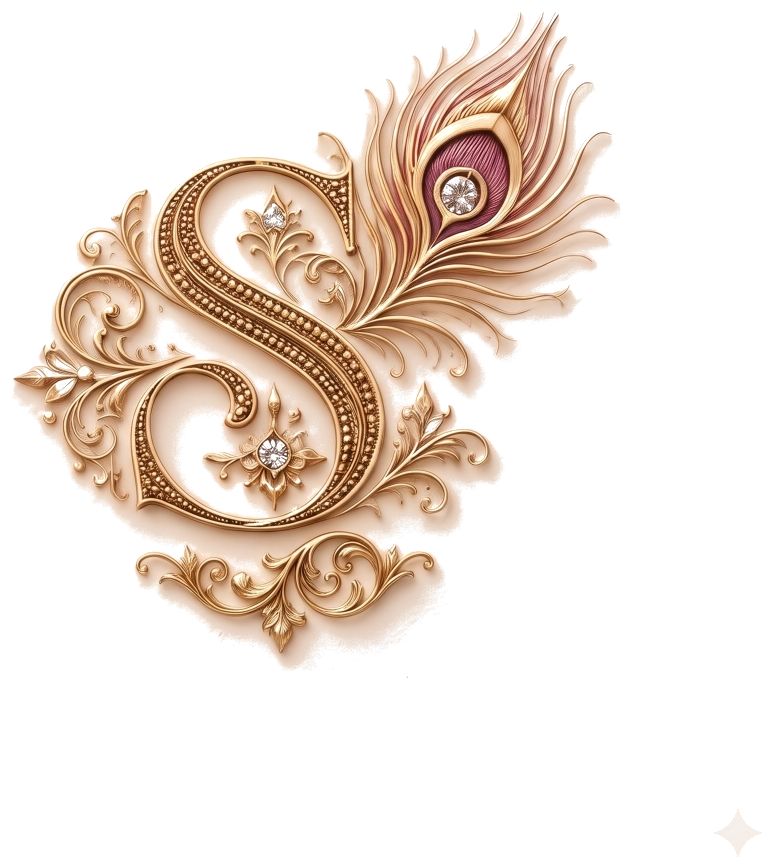
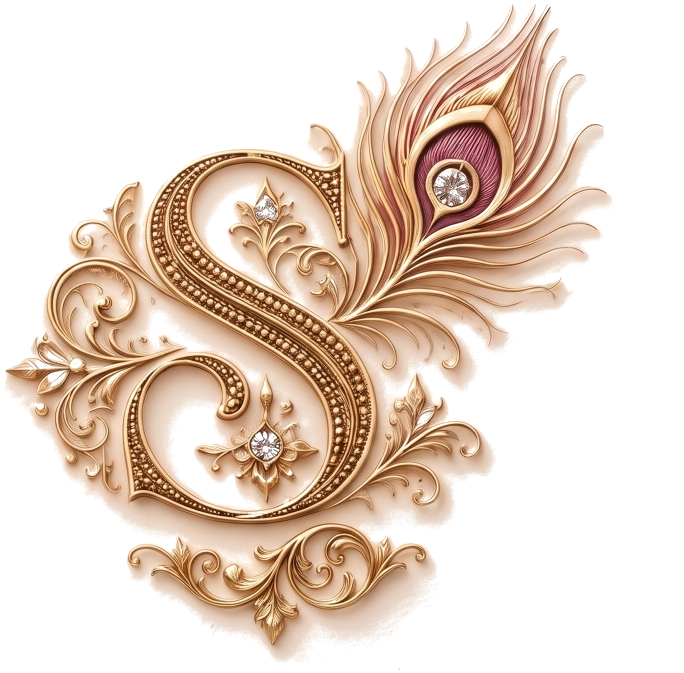
fix: clean watermark from crest and prevent mobile header word wrapping

diff --git a/src/App.tsx b/src/App.tsx
@@ -655,26 +655,35 @@ export default function App() {
             {/* Brand Logo & Wordmark - Integrated Seamlessly into Header */}
             <button
               onClick={() => window.scrollTo({ top: 0, behavior: "smooth" })}
-              className="flex items-center gap-2.5 sm:gap-3 text-left group cursor-pointer py-1 select-none"
+              className="flex items-center gap-2 sm:gap-3 text-left group cursor-pointer py-1 select-none shrink-0"
             >
               <div className="relative flex items-center justify-center shrink-0">
                 <img
                   src={resolveAsset("/images/shambhavi_crest_transparent.png")}
                   alt="Shambhavi Creations Emblem"
-                  className="h-11 sm:h-13 md:h-14 w-auto object-contain drop-shadow-[0_2px_8px_rgba(158,125,75,0.22)] group-hover:scale-105 transition-transform duration-300"
+                  className="h-10 sm:h-12 md:h-13 w-auto object-contain drop-shadow-[0_2px_8px_rgba(158,125,75,0.22)] group-hover:scale-105 transition-transform duration-300"
                 />
               </div>
 
-              <div className="flex flex-col justify-center">
-                <span className="font-serif-luxury text-base sm:text-lg md:text-[1.3rem] font-bold tracking-[0.2em] text-[#1F1E1D] group-hover:text-[#9E7D4B] transition-colors uppercase leading-none">
+              <div className="flex flex-col justify-center min-w-0">
+                <span className="font-serif-luxury text-[0.95rem] sm:text-lg md:text-[1.3rem] font-bold tracking-[0.18em] sm:tracking-[0.2em] text-[#1F1E1D] group-hover:text-[#9E7D4B] transition-colors uppercase leading-none whitespace-nowrap">
                   Shambhavi
                 </span>
-                <div className="flex items-center gap-1.5 mt-1">
-                  <span className="text-[0.55rem] sm:text-[0.62rem] uppercase tracking-[0.26em] text-[#9E7D4B] font-semibold leading-none">
+                
+                {/* Mobile: Clean single line that never wraps */}
+                <div className="sm:hidden mt-1 whitespace-nowrap">
+                  <span className="text-[0.52rem] uppercase tracking-[0.22em] text-[#9E7D4B] font-semibold leading-none whitespace-nowrap">
+                    {storeSettings.tagline || "Fine Jewellery"}
+                  </span>
+                </div>
+
+                {/* Tablet & Desktop: Creations • Fine Jewellery */}
+                <div className="hidden sm:flex items-center gap-1.5 mt-1 whitespace-nowrap">
+                  <span className="text-[0.62rem] uppercase tracking-[0.26em] text-[#9E7D4B] font-semibold leading-none whitespace-nowrap">
                     Creations
                   </span>
                   <span className="text-[0.45rem] text-[#C2A374] leading-none">•</span>
-                  <span className="text-[0.5rem] sm:text-[0.56rem] uppercase tracking-[0.2em] text-[#78746F] font-medium leading-none">
+                  <span className="text-[0.56rem] uppercase tracking-[0.2em] text-[#78746F] font-medium leading-none whitespace-nowrap">
                     {storeSettings.tagline}
                   </span>
                 </div>
@@ -1377,16 +1386,16 @@ export default function App() {
                   alt="Shambhavi Creations"
                   className="h-13 sm:h-14 w-auto object-contain drop-shadow-[0_2px_8px_rgba(158,125,75,0.2)] group-hover:scale-105 transition-transform duration-300"
                 />
-                <div className="flex flex-col justify-center">
-                  <span className="font-serif-luxury text-lg sm:text-xl font-bold tracking-[0.2em] text-[#1F1E1D] group-hover:text-[#9E7D4B] transition-colors uppercase leading-none">
+                <div className="flex flex-col justify-center min-w-0">
+                  <span className="font-serif-luxury text-lg sm:text-xl font-bold tracking-[0.2em] text-[#1F1E1D] group-hover:text-[#9E7D4B] transition-colors uppercase leading-none whitespace-nowrap">
                     Shambhavi
                   </span>
-                  <div className="flex items-center gap-1.5 mt-1">
-                    <span className="text-[0.58rem] uppercase tracking-[0.28em] text-[#9E7D4B] font-semibold leading-none">
+                  <div className="flex items-center gap-1.5 mt-1 whitespace-nowrap">
+                    <span className="text-[0.58rem] uppercase tracking-[0.28em] text-[#9E7D4B] font-semibold leading-none whitespace-nowrap">
                       Creations
                     </span>
                     <span className="text-[0.45rem] text-[#C2A374] leading-none">•</span>
-                    <span className="text-[0.52rem] uppercase tracking-[0.22em] text-[#78746F] font-medium leading-none">
+                    <span className="text-[0.52rem] uppercase tracking-[0.22em] text-[#78746F] font-medium leading-none whitespace-nowrap">
                       {storeSettings.tagline}
                     </span>
                   </div>
